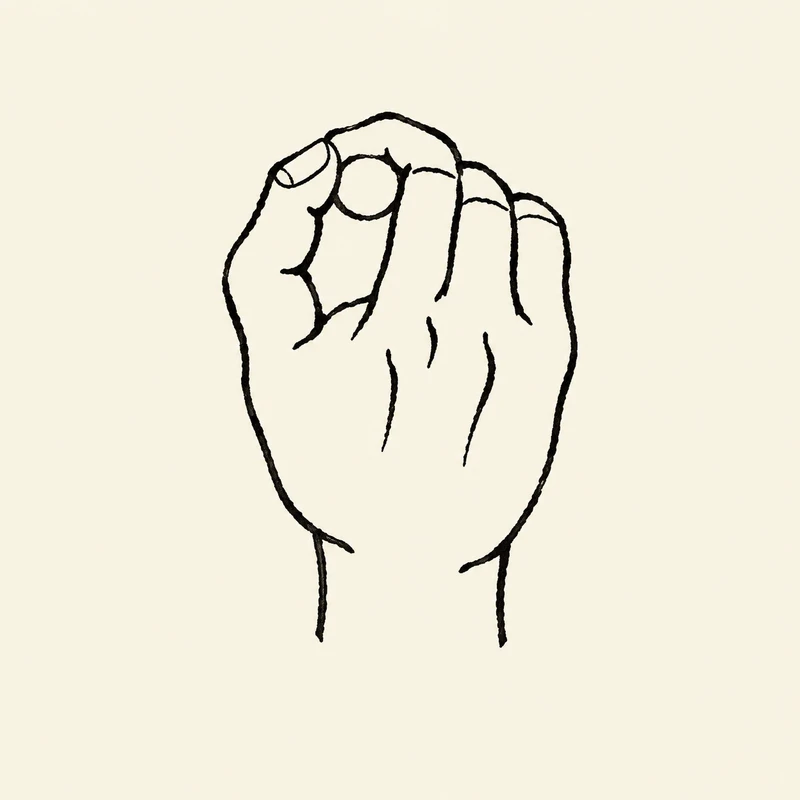
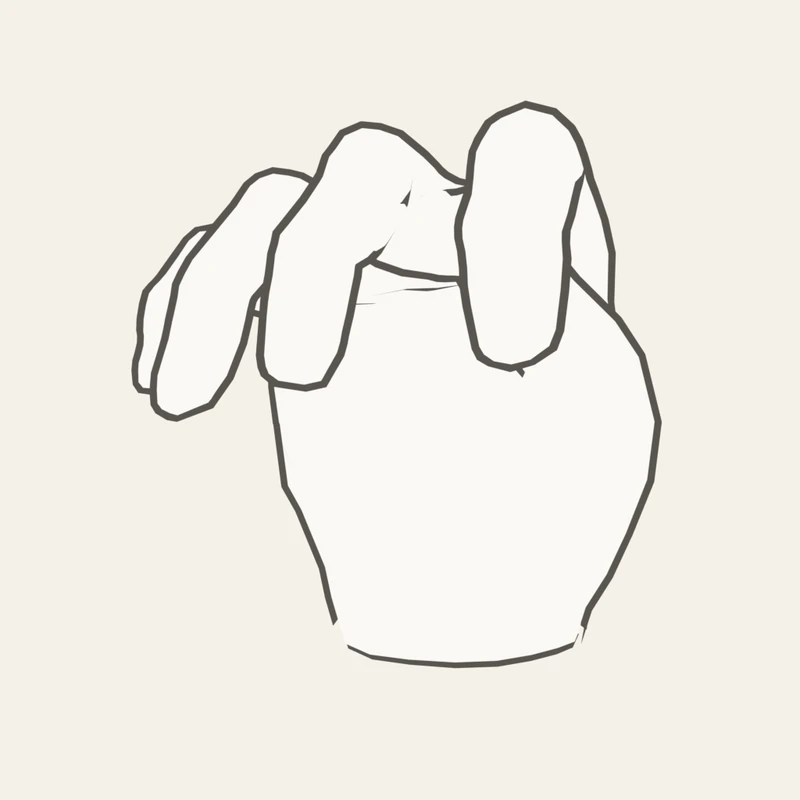
重做首页hero-o配图：旧图手势画错，用Blender管线按国标O姿态渲染线描兜底（aitreez文生图恢复后可再换）

diff --git a/blender/render_o_ink.py b/blender/render_o_ink.py
@@ -1,0 +1,106 @@
+"""O 字母习字页配图候选：Blender 线描兜底。
+
+首页 hero-o.webp 旧图手势画错（捏圈拳，非国标 O）；aitreez 文生图 503 期间
+改用本管线渲染：复用 build_godot_hand_poc.py 的 O 姿态与正面机位，
+纸色自发光填充 + 反面壳（inverted hull）描边：网格复制一份、顶点沿法向
+外扩、翻转法向、纯黑自发光，渲染出轮廓线稿。
+合成米白纸底（#f5f1e8）与 webp 由调用方用 PIL 完成；
+目检通过后才替换 practice/content/art/hero-o.webp。
+
+Usage:
+  blender -b --python-exit-code 1 --python blender/render_o_ink.py
+"""
+
+import importlib.util
+import os
+import sys
+
+import bpy
+
+ROOT = os.path.dirname(os.path.abspath(__file__))
+sys.path.insert(0, ROOT)
+
+_SPEC = importlib.util.spec_from_file_location(
+    "godot_hand_poc", os.path.join(ROOT, "build_godot_hand_poc.py")
+)
+poc = importlib.util.module_from_spec(_SPEC)
+_SPEC.loader.exec_module(poc)
+
+OUT = os.path.join(ROOT, "candidates", "hero-o-ink")
+SIZE = 1024
+PAPER = (0.961, 0.945, 0.910)  # #f5f1e8，与习字页米白纸一致
+HULL = 0.0018  # 描边厚度：沿法向外扩 1.8mm（手模约 0.35m），白描细线
+
+
+def emission_material(name, color):
+    mat = bpy.data.materials.new(name)
+    mat.use_nodes = True
+    nt = mat.node_tree
+    nt.nodes.clear()
+    out = nt.nodes.new("ShaderNodeOutputMaterial")
+    em = nt.nodes.new("ShaderNodeEmission")
+    em.inputs["Color"].default_value = (*color, 1.0)
+    em.inputs["Strength"].default_value = 1.0
+    nt.links.new(em.outputs["Emission"], out.inputs["Surface"])
+    return mat
+
+
+def main():
+    os.makedirs(OUT, exist_ok=True)
+    arm, mesh = poc.import_hand()
+    for mod in mesh.modifiers:
+        if mod.type == "ARMATURE" and hasattr(mod, "use_preserve_volume"):
+            mod.use_preserve_volume = True
+
+    mesh.data.materials.clear()
+    mesh.data.materials.append(emission_material("Paper", PAPER))
+
+    # 反面壳描边：复制网格 → 顶点沿法向外扩 → 翻转法向 → 黑色自发光。
+    # 顶点组随对象复制，骨架形变两份网格一致，壳只露出轮廓边缘。
+    ink = mesh.copy()
+    ink.data = mesh.data.copy()
+    ink.name = "HandInkHull"
+    bpy.context.collection.objects.link(ink)
+    for v in ink.data.vertices:
+        v.co = v.co + v.normal * HULL
+    ink.data.flip_normals()
+    ink.data.materials.clear()
+    ink_mat = emission_material("Ink", (0.10, 0.09, 0.08))
+    ink_mat.use_backface_culling = True  # 壳的近侧（翻转后法向朝内）被剔除，只剩轮廓露出
+    ink.data.materials.append(ink_mat)
+
+    _center, palm_normal, finger_up = poc.palm_frame(arm)
+    axis = poc.flex_axis()
+    poc.apply_pose(arm, "O", palm_normal, finger_up, axis)
+    lo, hi = poc.world_bbox(mesh)
+    span = (hi - lo).length
+    center = (lo + hi) / 2
+    front = poc.front_view_dir("O", palm_normal, finger_up)
+    up = poc.view_up("O", front, finger_up)
+    poc.add_camera(center + front * span * 1.35, center, up)
+
+    sc = bpy.context.scene
+    try:
+        sc.render.engine = "BLENDER_EEVEE_NEXT"
+    except TypeError:
+        sc.render.engine = "BLENDER_EEVEE"
+    sc.render.resolution_x = SIZE
+    sc.render.resolution_y = SIZE
+    sc.render.image_settings.file_format = "PNG"
+    sc.render.image_settings.color_mode = "RGBA"
+    sc.render.film_transparent = True
+    sc.view_settings.view_transform = "Standard"  # 不过 AgX，自发光纸色保真
+
+    png = os.path.join(OUT, "hero-o-ink.png")
+    sc.render.filepath = png
+    bpy.ops.render.render(write_still=True)
+    print("WROTE", png)
+    print("O_INK_OK", OUT)
+
+
+if __name__ == "__main__":
+    try:
+        main()
+    except Exception as exc:
+        print("O_INK_FAIL", type(exc).__name__, exc, file=sys.stderr)
+        raise
